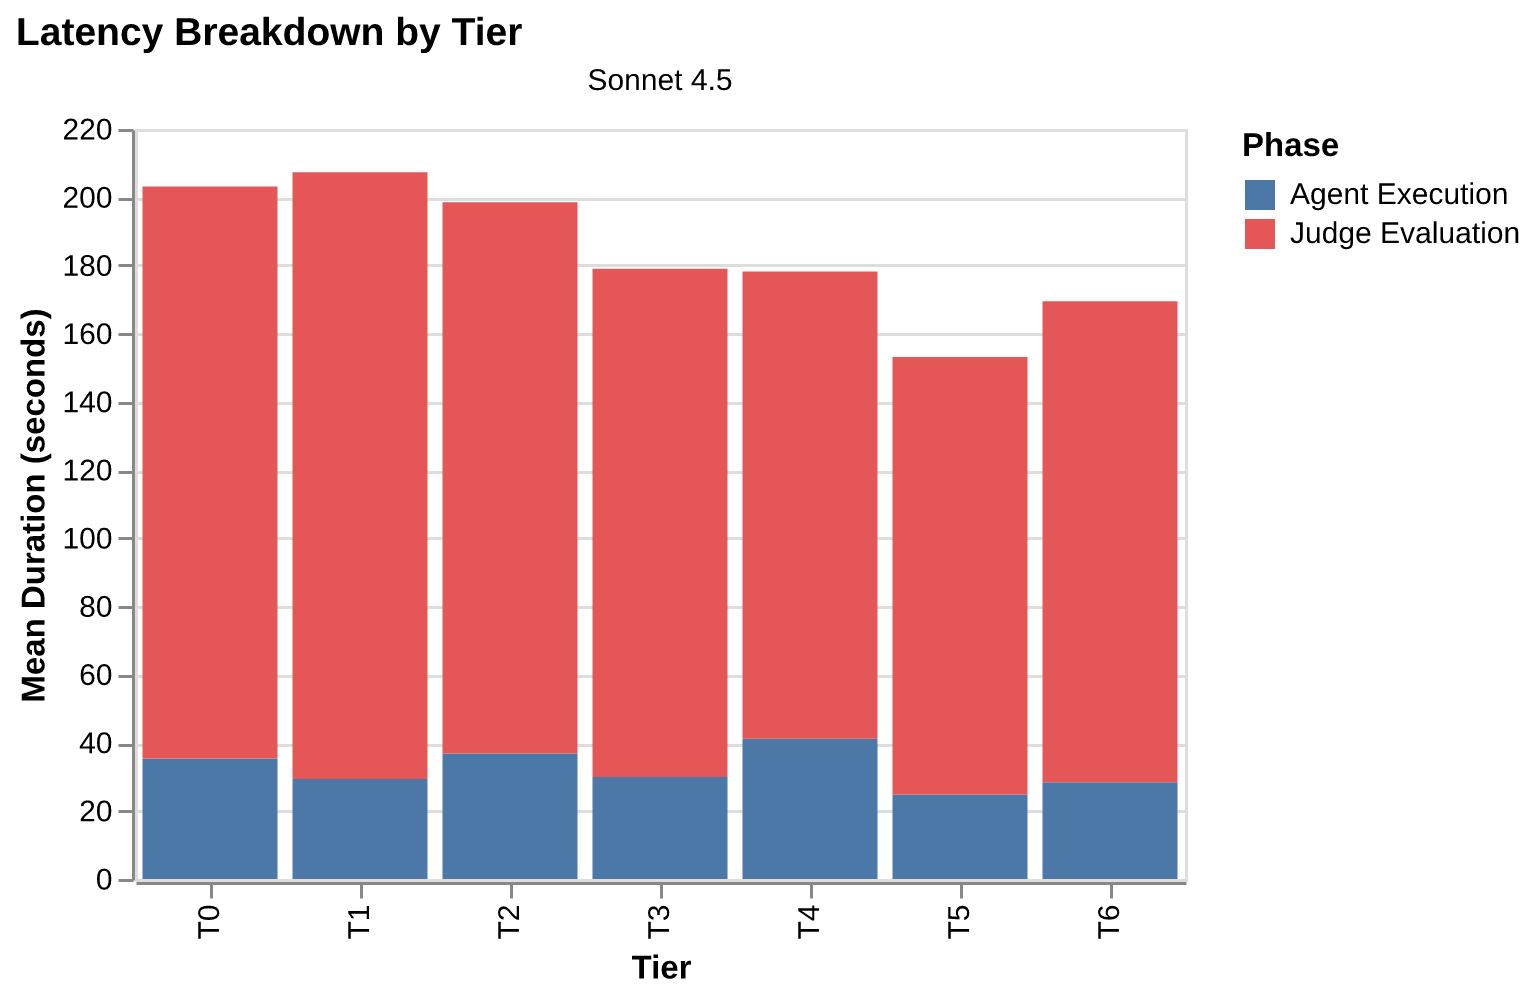
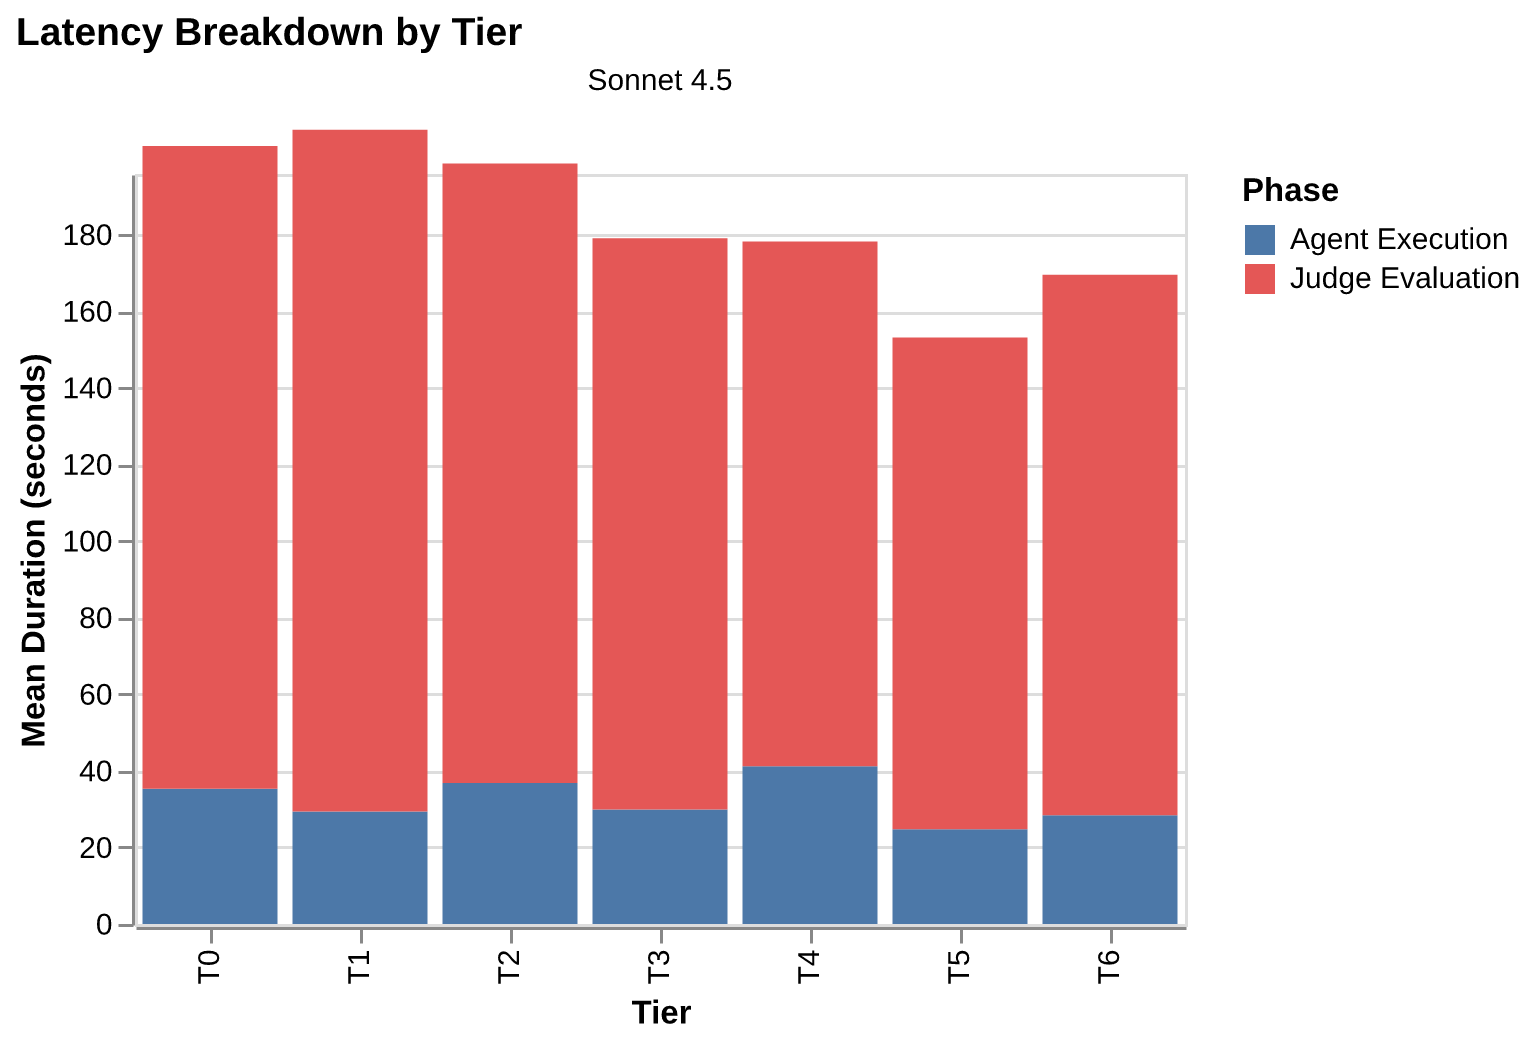
fix(figures): use full Y-axis domain for fig13 latency breakdown
- Change Y-axis from dynamic domain to [0, max*1.1]
- Prevents stacked bars from appearing broken due to clipped range
- Shows full duration scale from zero baseline

diff --git a/scylla/analysis/figures/subtest_detail.py b/scylla/analysis/figures/subtest_detail.py
@@ -63,7 +63,11 @@ def fig13_latency(runs_df: pd.DataFrame, output_dir: Path, render: bool = True) 
         .mark_bar()
         .encode(
             x=alt.X("tier:O", title="Tier", sort=tier_order),
-            y=alt.Y("duration:Q", title="Mean Duration (seconds)"),
+            y=alt.Y(
+                "duration:Q",
+                title="Mean Duration (seconds)",
+                scale=alt.Scale(domain=[0, duration_long["duration"].max() * 1.1]),
+            ),
             color=alt.Color(
                 "phase_label:N",
                 title="Phase",
